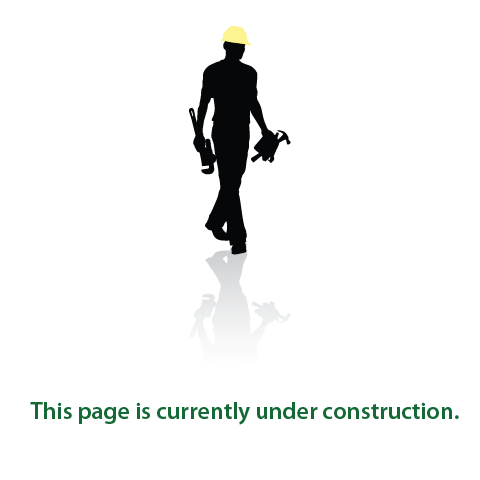
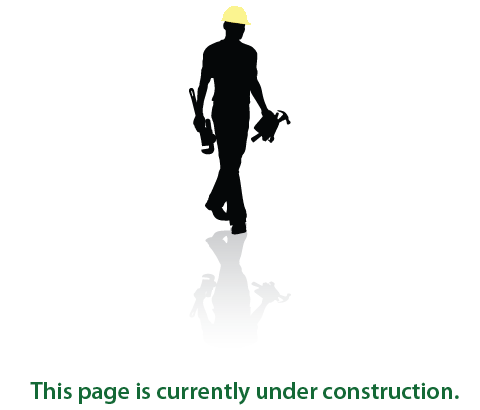
Added a back button to the under.html page and reduced the under.png height

diff --git a/project1/under.html b/project1/under.html
@@ -27,6 +27,9 @@
 				<p>Helping you organize projects & profitability.</p>	
 			</hgroup>
 		</header>
+		<div id= "back">
+			<a href="index.html" >back</a>
+		</div>
 		<!-- Call to Action --> 
 		<div id="CTA">
 			<img src="images/under.png" border="0" />

diff --git a/project1/css/style.css b/project1/css/style.css
@@ -49,8 +49,12 @@ a:hover {
 	color:#146936; 
 	opacity: 0.6;
 }
+div#back {
+	margin: 0px 0px 2px 215px;
+}
 nav {
-	margin: 1px 126px 1px 10px;}
+	margin: 1px 126px 1px 10px;
+}
 p{
 	color:#848484 ;
 	font-family: Verdana ;
